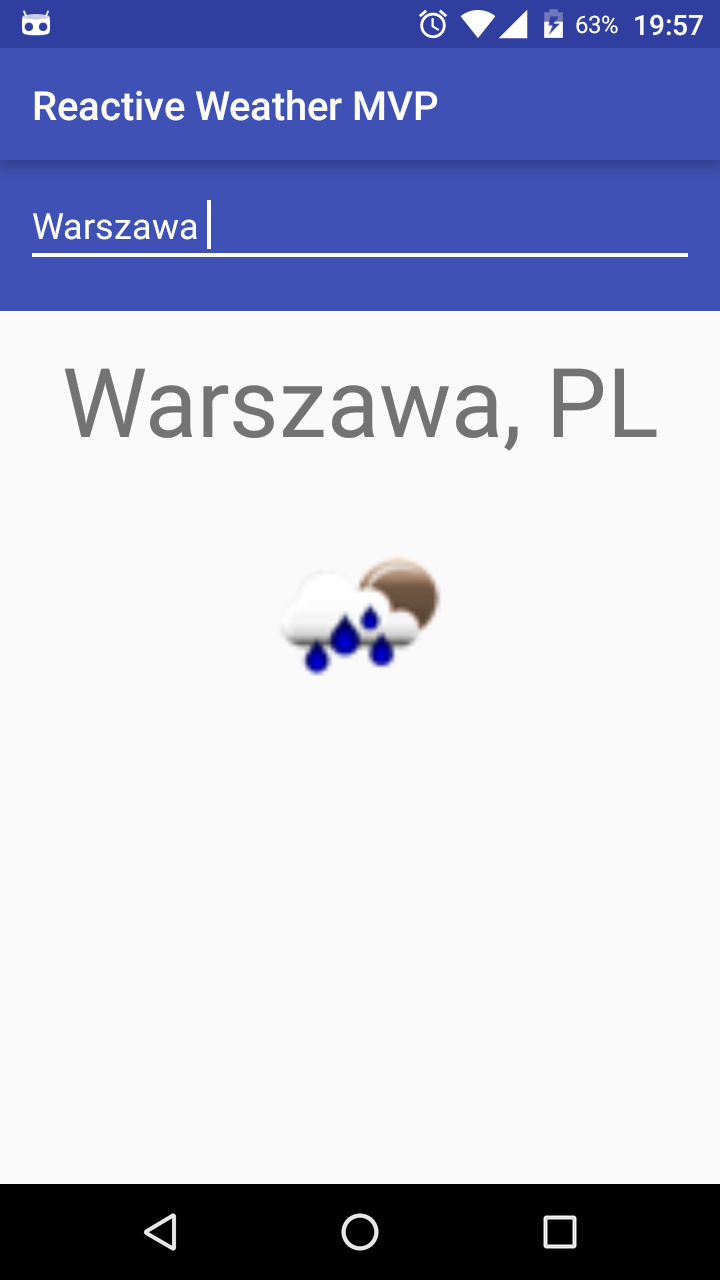
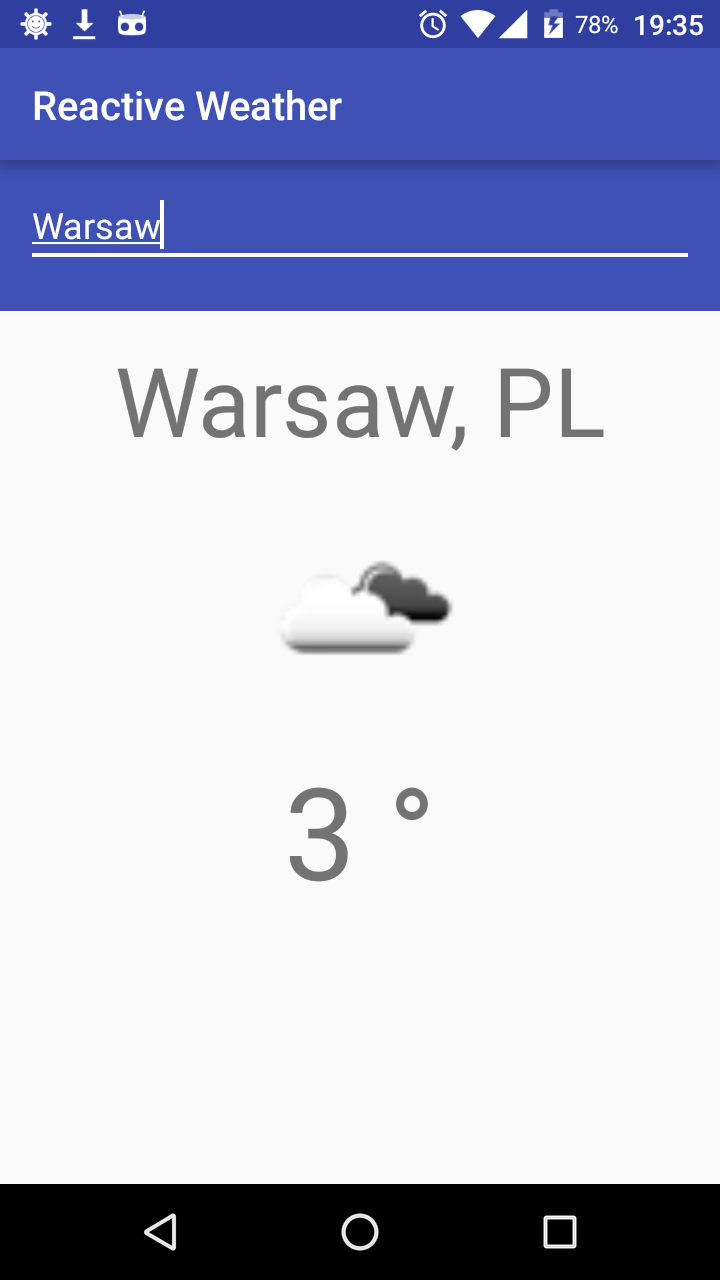
Fixed app screenshot.

diff --git a/app-mvp/src/main/java/com/reactiveweather/ui/main/MainActivity.java b/app-mvp/src/main/java/com/reactiveweather/ui/main/MainActivity.java
@@ -30,6 +30,9 @@ public class MainActivity extends BaseActivity<MainView, MainPresenter> implemen
     @Bind(R.id.text_city_name)
     TextView cityNameTextView;
 
+    @Bind(R.id.temperature_text_view)
+    TextView temperatureTextView;
+
     @Override
     protected void onCreate(Bundle savedInstanceState) {
         super.onCreate(savedInstanceState);
@@ -59,6 +62,7 @@ public class MainActivity extends BaseActivity<MainView, MainPresenter> implemen
     public void updateCurrentForecast(CurrentForecast forecast) {
         Log.d(TAG, forecast.toString());
         cityNameTextView.setText(getString(R.string.text_city_country, forecast.city, forecast.country.country));
+        temperatureTextView.setText(getString(R.string.temperature, (int) forecast.main.temp));
         Glide.with(MainActivity.this)
                 .load("http://openweathermap.org/img/w/" + forecast.weatherList.get(0).icon + ".png")
                 .into((ImageView) findViewById(R.id.image_weather_icon));

diff --git a/app-mvp/src/main/java/com/reactiveweather/ui/base/BaseActivity.java b/app-mvp/src/main/java/com/reactiveweather/ui/base/BaseActivity.java
@@ -13,6 +13,7 @@ public abstract class BaseActivity<V extends BaseView, P extends BasePresenter<V
     protected void onCreate(Bundle savedInstanceState) {
         super.onCreate(savedInstanceState);
 
+        // Check for retained presenter
         if (savedInstanceState != null) {
             presenter = PresenterCache.getCache().restore(savedInstanceState);
         } else {
@@ -30,6 +31,7 @@ public abstract class BaseActivity<V extends BaseView, P extends BasePresenter<V
     @Override
     protected void onSaveInstanceState(Bundle outState) {
         super.onSaveInstanceState(outState);
+        // Save presenter during configuration change
         PresenterCache.getCache().save(presenter, outState);
     }
 
